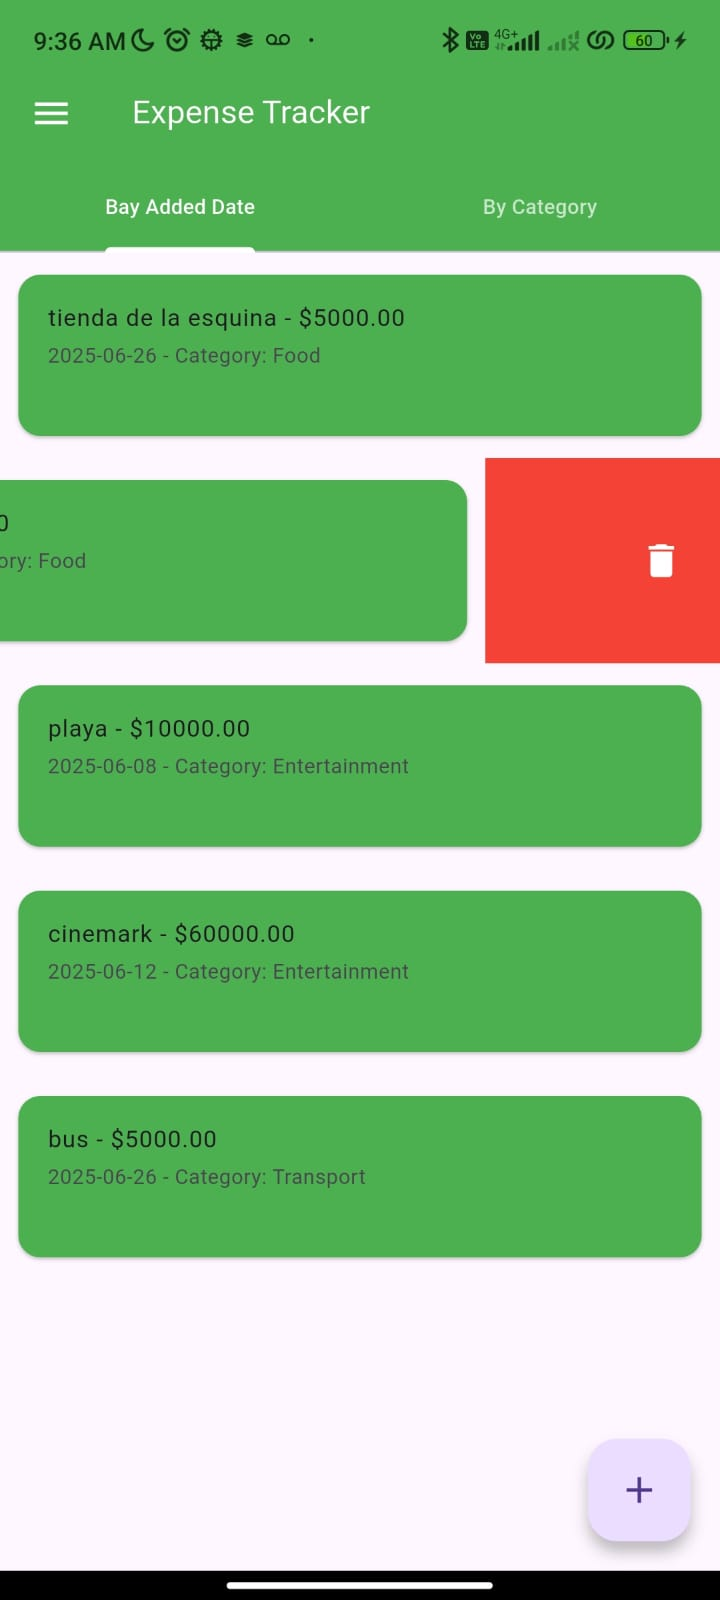
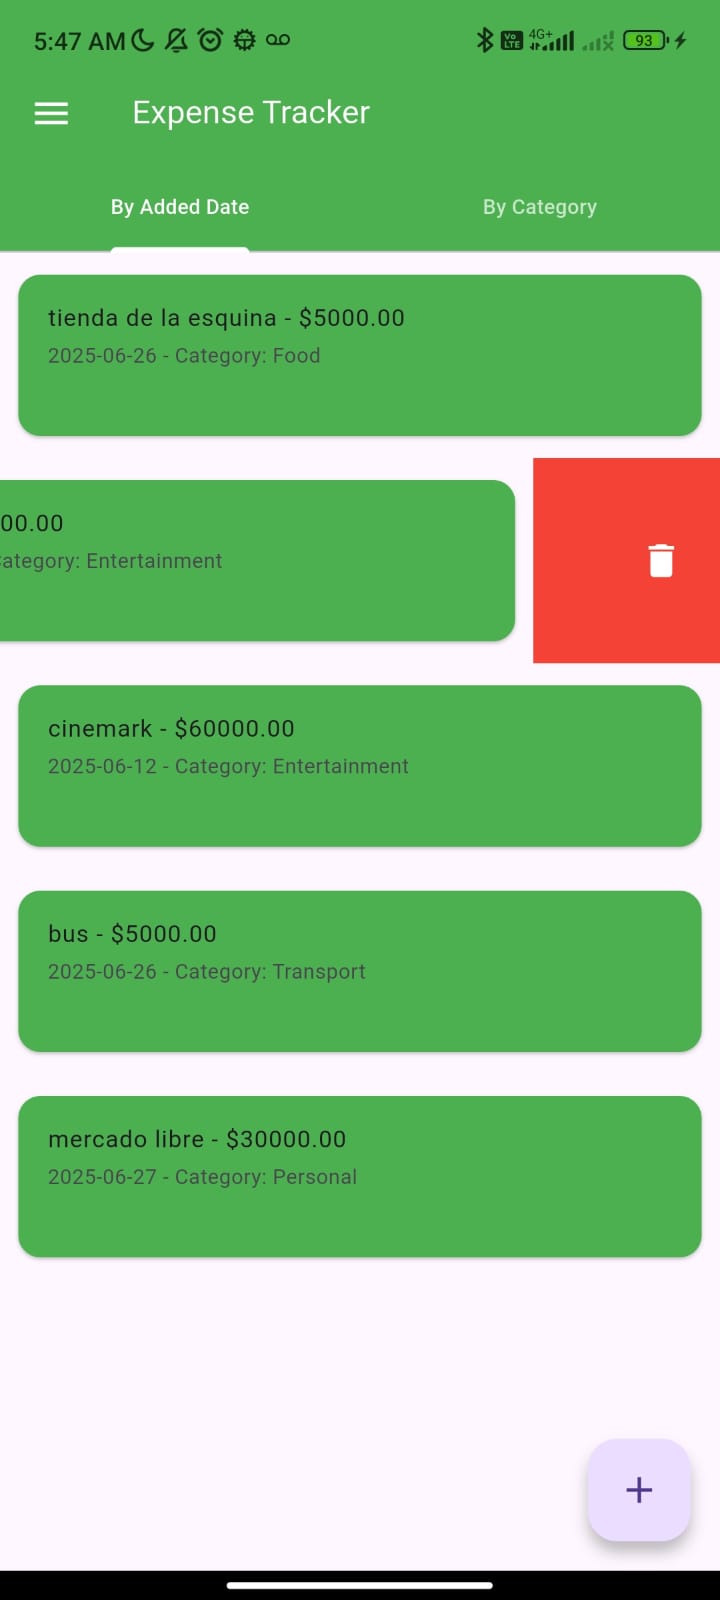
updating readme v3

diff --git a/lib/screens/home_screen.dart b/lib/screens/home_screen.dart
@@ -28,7 +28,7 @@ class _HomeScreenState extends State<HomeScreen> with SingleTickerProviderStateM
           labelColor: Colors.white,
           unselectedLabelColor: Colors.white70,
           tabs: [
-            Tab(text: 'Bay Added Date',),
+            Tab(text: 'By Added Date',),
             Tab(text: 'By Category',)
           ]
         )
